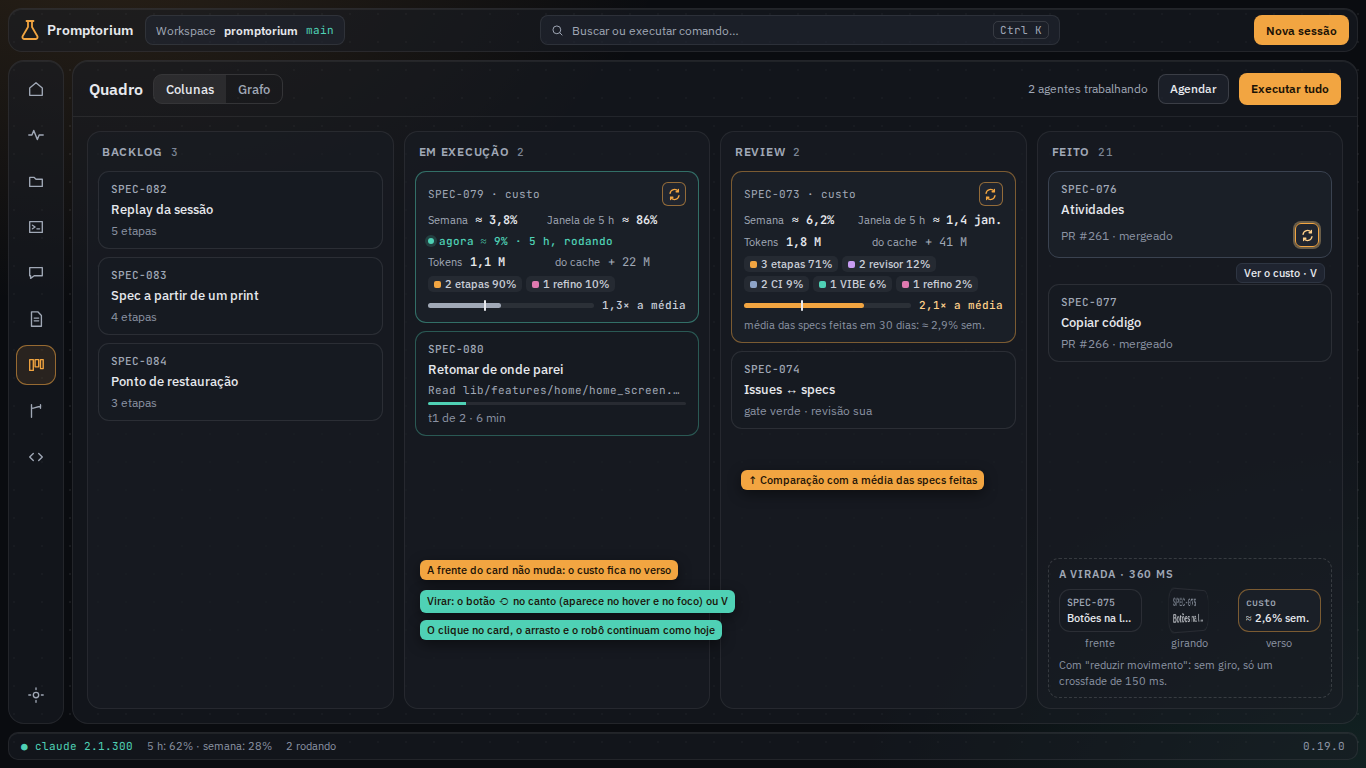
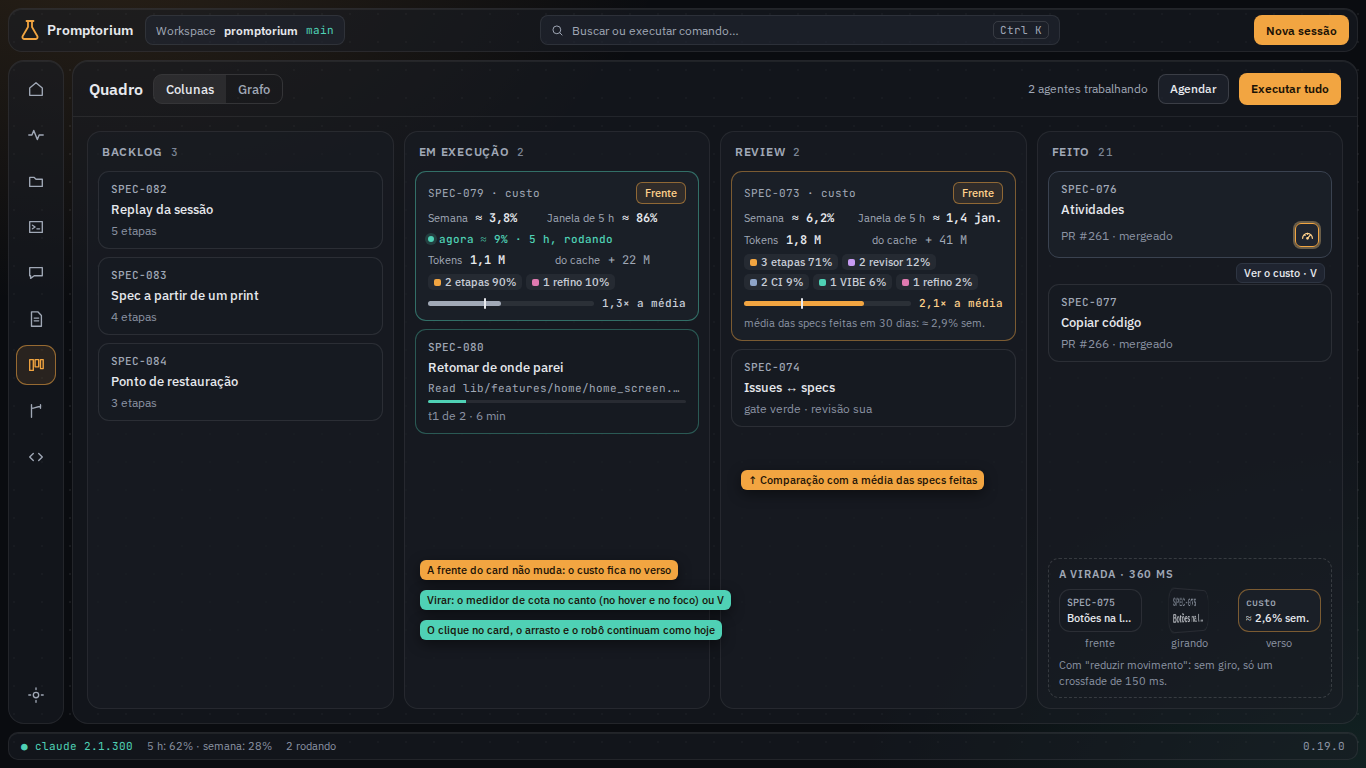
docs(spec-081): medidor de cota como gatilho do verso

diff --git a/docs/specs/SPEC-081-custo-por-spec.md b/docs/specs/SPEC-081-custo-por-spec.md
@@ -52,11 +52,11 @@ Mockup: [canvas do Claude Design](https://claude.ai/artifact/8jY976rNGUu6w2TNxAo
 ### Onde aparece
 
 - R6 · **O custo fica no verso do card.** A frente do card do Quadro continua como é hoje, sem nenhum número de custo: o "US$ 4,12" que a frente mostra hoje sai dela e vai para o verso. Para ver o custo, a pessoa **vira o card**:
-  - **o gatilho** é um botão de ícone "virar" (⟲) no canto inferior direito da frente, que aparece com o mouse sobre o card ou com o foco dentro dele, com a dica "Ver o custo · V"; com o foco no card, a tecla **V** também vira. O botão usa `AppPressable.claim`, como os selos do card (gate, CI, issue), para o toque nele não virar clique no card nem começar um arrasto (P2);
-  - **a animação** é um giro 3D no eixo vertical (`Transform` com perspectiva, `rotateY` de 0 a 180°), de 360 ms com a curva do app; na metade do giro a frente dá lugar ao verso. Virar de novo (o mesmo botão, agora no verso, V ou Esc) volta à frente pelo mesmo giro;
+  - **o gatilho** é um botão com o ícone de **medidor de cota** (um mostrador com ponteiro, como o `Icons.speed` do Material) no canto inferior direito da frente, que aparece com o mouse sobre o card ou com o foco dentro dele, com a dica "Ver o custo · V"; com o foco no card, a tecla **V** também vira. O botão usa `AppPressable.claim`, como os selos do card (gate, CI, issue), para o toque nele não virar clique no card nem começar um arrasto (P2);
+  - **a animação** é um giro 3D no eixo vertical (`Transform` com perspectiva, `rotateY` de 0 a 180°), de 360 ms com a curva do app; na metade do giro a frente dá lugar ao verso. No verso, o botão "Frente" (no mesmo canto, com texto), V ou Esc voltam à frente pelo mesmo giro;
   - **a altura:** o card virado tem a altura do maior dos dois lados; se o verso precisa de mais, o card cresce junto com o giro e volta à altura da frente ao desvirar;
   - **um por vez:** virar outro card desvira o anterior; arrastar um card virado desvira ele antes; trocar de workspace ou de tela desvira todos. O estado não é salvo (P9).
-- R6a · **O verso.** Mostra, de cima para baixo: "SPEC-073 · custo" e o botão de desvirar; **Semana** "≈ 6,2%" e **Janela de 5 h** "≈ 1,4 jan."; **Tokens** "1,8 M" e "+ 41 M do cache"; **as sessões somadas por tipo**, em etiquetas com a cor da origem, a quantidade e a parte de cada uma ("3 etapas 71%", "2 revisor 12%", "2 CI 9%", "1 VIBE 6%", "1 refino 2%"); e **a comparação com a média**: uma barra com o peso da spec e um traço na média, "2,1× a média" e, quando cabe, "média das specs feitas em 30 dias: ≈ 2,9% sem." (P8). Com menos de 3 specs na média, a linha diz "sem média ainda". Acima de 1,5× a média, a barra e o número ficam em âmbar. Clicar no verso (fora do botão) abre o detalhe da spec (R8), como o clique na frente. Uma spec sem consumo mostra no verso "Nada gasto ainda".
+- R6a · **O verso.** Mostra, de cima para baixo: "SPEC-073 · custo" e o botão "Frente"; **Semana** "≈ 6,2%" e **Janela de 5 h** "≈ 1,4 jan."; **Tokens** "1,8 M" e "+ 41 M do cache"; **as sessões somadas por tipo**, em etiquetas com a cor da origem, a quantidade e a parte de cada uma ("3 etapas 71%", "2 revisor 12%", "2 CI 9%", "1 VIBE 6%", "1 refino 2%"); e **a comparação com a média**: uma barra com o peso da spec e um traço na média, "2,1× a média" e, quando cabe, "média das specs feitas em 30 dias: ≈ 2,9% sem." (P8). Com menos de 3 specs na média, a linha diz "sem média ainda". Acima de 1,5× a média, a barra e o número ficam em âmbar. Clicar no verso (fora do botão) abre o detalhe da spec (R8), como o clique na frente. Uma spec sem consumo mostra no verso "Nada gasto ainda".
 - R6b · **O que não muda.** O clique no card abre o detalhe como hoje; o arrasto move o card como hoje; o clique no robô (SPEC-076) abre a Atividades como hoje; o menu do card continua no mesmo lugar. O robô e o balão de pedido ficam só na frente.
 - R6c · **Reduzir movimento.** Com "reduzir movimento" do sistema (`MediaQuery.disableAnimations`), a troca não gira: frente e verso trocam por um crossfade de 150 ms, e a altura muda sem animar.
 - R7 · **Ao vivo.** Enquanto a spec tem uma sessão viva, o verso mostra também o peso dela na janela de 5 h atual, o mesmo da Atividades (SPEC-076 R7): "agora ≈ 9% · 5 h, rodando", em teal. Os números do verso se atualizam a cada turno sem desvirar o card.
@@ -90,7 +90,8 @@ Mockup: [canvas do Claude Design](https://claude.ai/artifact/8jY976rNGUu6w2TNxAo
 ## Decisões em aberto
 
 - P1 · **Como transformar consumo em % da cota.** (a) Repartir a subida da cota entre os turnos do app no intervalo; (b) uma régua aprendida (mediana de subida ÷ custo, R3); (c) uma tabela fixa por plano. **Recomendação: (b).** A (a) joga na spec o que a pessoa gastou no terminal ao mesmo tempo. A (c) depende de números que a Anthropic não publica e que mudam. A régua se ajusta sozinha e a mediana descarta os intervalos contaminados.
-- P2 · **Gatilho para virar o card.** O clique no card abre o detalhe, o arrasto move, o robô leva à Atividades e o menu "⋯" abre as ações. Clique duplo atrasaria o clique simples (o app teria de esperar para saber se vem o segundo); pressionar e segurar briga com o arrasto; passar o mouse viraria cards sem querer ao percorrer o Quadro; o botão direito não é descoberto por ninguém. **Recomendação: um botão de ícone "virar" (⟲) no canto inferior direito**, que aparece no hover e no foco, mais a tecla **V** com o card em foco. É explícito, não tem atraso, segue o padrão dos selos clicáveis do card (`AppPressable.claim`) e funciona pelo teclado.
+- P2 · **Gatilho para virar o card.** O clique no card abre o detalhe, o arrasto move, o robô leva à Atividades e o menu "⋯" abre as ações. Clique duplo atrasaria o clique simples (o app teria de esperar para saber se vem o segundo); pressionar e segurar briga com o arrasto; passar o mouse viraria cards sem querer ao percorrer o Quadro; o botão direito não é descoberto por ninguém. **Recomendação: um botão com o ícone de medidor de cota no canto inferior direito**, que aparece no hover e no foco, mais a tecla **V** com o card em foco. É explícito, não tem atraso, segue o padrão dos selos clicáveis do card (`AppPressable.claim`) e funciona pelo teclado.
+- P2b · **O ícone do gatilho.** Uma seta circular lê como "refazer" ou "atualizar", e no card de uma spec isso sugere rodar de novo. Um ícone de virar (`flip`, `flip_to_back`) diz que o card vira, mas não o que há atrás. Um selo com o peso ("4%") diz o que há atrás, mas põe o custo na frente, que deve ficar como hoje. **Recomendação: o ícone de medidor de cota** (o mostrador do `Icons.speed`), o mesmo desenho da cota no rodapé e na Atividades: diz que atrás está o gasto da cota sem mostrar número na frente. No verso, o caminho de volta é um botão com texto, "Frente", que não tem como ser confundido.
 - P2a · **O que o verso destaca.** % da semana, janela de 5 h ou tokens. **Recomendação: % da semana primeiro**, com a janela de 5 h ao lado e os tokens embaixo. Uma spec atravessa várias janelas de 5 h, e "140% da janela" confunde; a semana acumula, como a spec.
 - P3 · **Tokens: com ou sem cache.** A leitura de cache é a maior parte dos tokens (40 M num dia) e pesa pouco na cota. **Recomendação:** o número principal é entrada nova + escrita de cache + saída; a leitura de cache aparece à parte ("+ 41 M lidos do cache").
 - P4 · **Onde fica o ranking.** Em Projeto → Métricas, na Atividades ou numa tela nova. **Recomendação: Projeto → Métricas**, que já é a tela de "o que cada spec custou" (F14). A Atividades é do que está vivo agora.
@@ -157,7 +158,7 @@ Sim. Uma tabela nova, `usage_entries`, na **v29** (provisória: a atual é a v28
 - [ ] A régua sai da mediana das divisões na mesma janela e ignora a janela que renovou [R3] verificar: flutter test test/features/cost/quota_ruler_test.dart
 - [ ] O peso fica no lançamento e um lançamento sem régua recebe o peso depois [R4] verificar: flutter test test/features/cost/usage_ledger_test.dart
 - [ ] O histórico de antes é reconstruído dos eventos uma vez só, marcado como estimado [R5] verificar: flutter test test/features/cost/usage_backfill_test.dart
-- [ ] A frente do card não mostra custo; o botão ⟲ e a tecla V viram o card com o giro 3D e desviram, um card por vez [R6, R14] verificar: flutter test test/features/cost/spec_card_flip_test.dart
+- [ ] A frente do card não mostra custo; o botão de medidor e a tecla V viram o card com o giro 3D e desviram, um card por vez [R6, R14] verificar: flutter test test/features/cost/spec_card_flip_test.dart
 - [ ] O clique no card, o arrasto e o clique no robô fazem o mesmo que hoje, e arrastar desvira o card [R6b] verificar: flutter test test/features/cost/spec_card_flip_test.dart
 - [ ] Com "reduzir movimento", a troca é um crossfade sem giro [R6c] verificar: flutter test test/features/cost/spec_card_flip_test.dart
 - [ ] O verso mostra semana, 5 h, tokens, as sessões por tipo, a comparação com a média e "agora" com sessão viva [R6a, R7, R13] verificar: flutter test test/features/cost/spec_cost_back_test.dart
